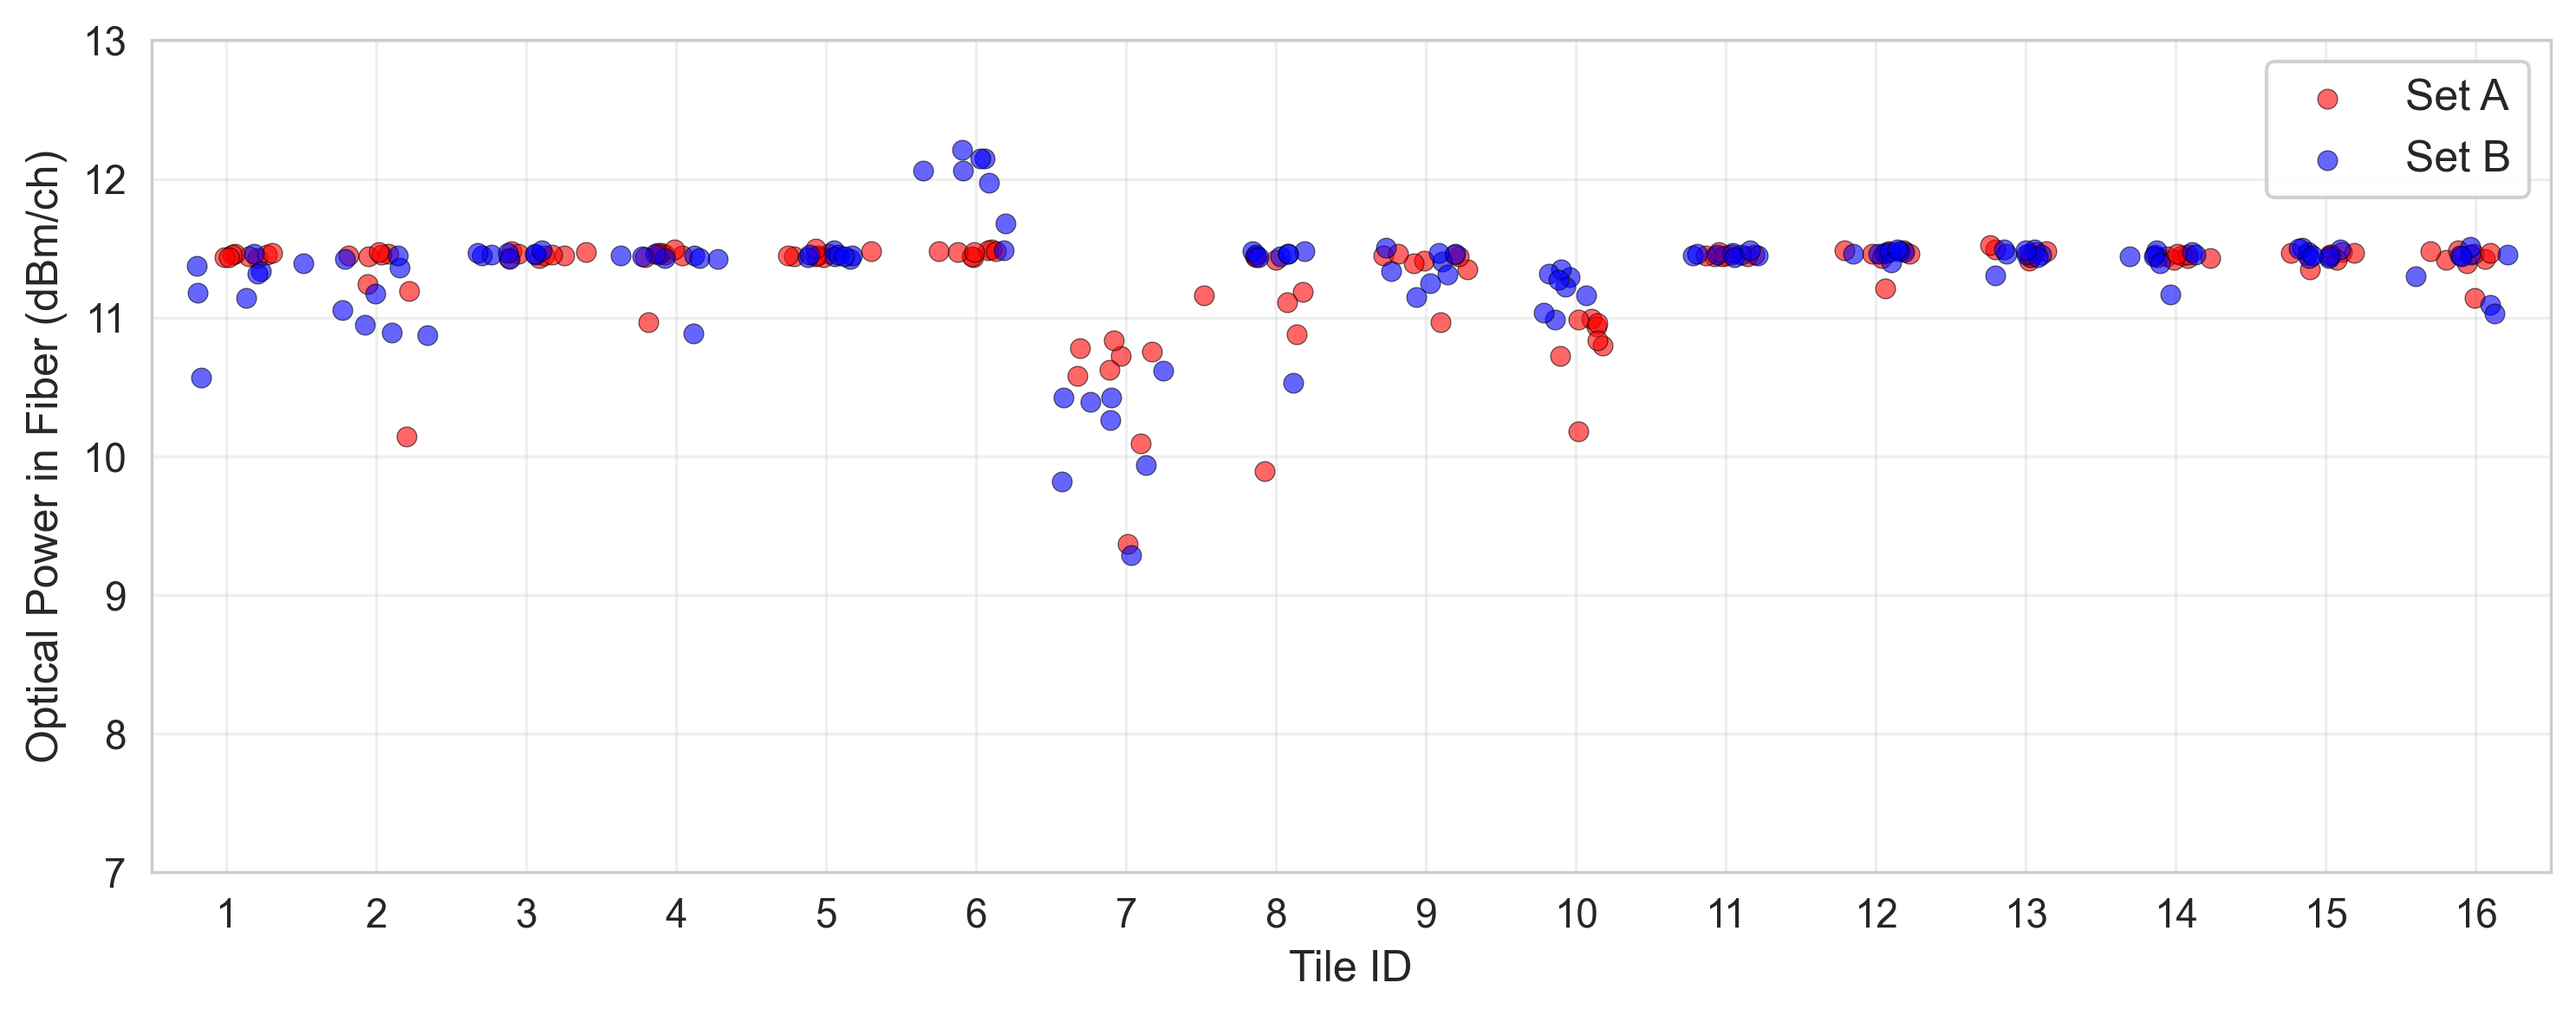
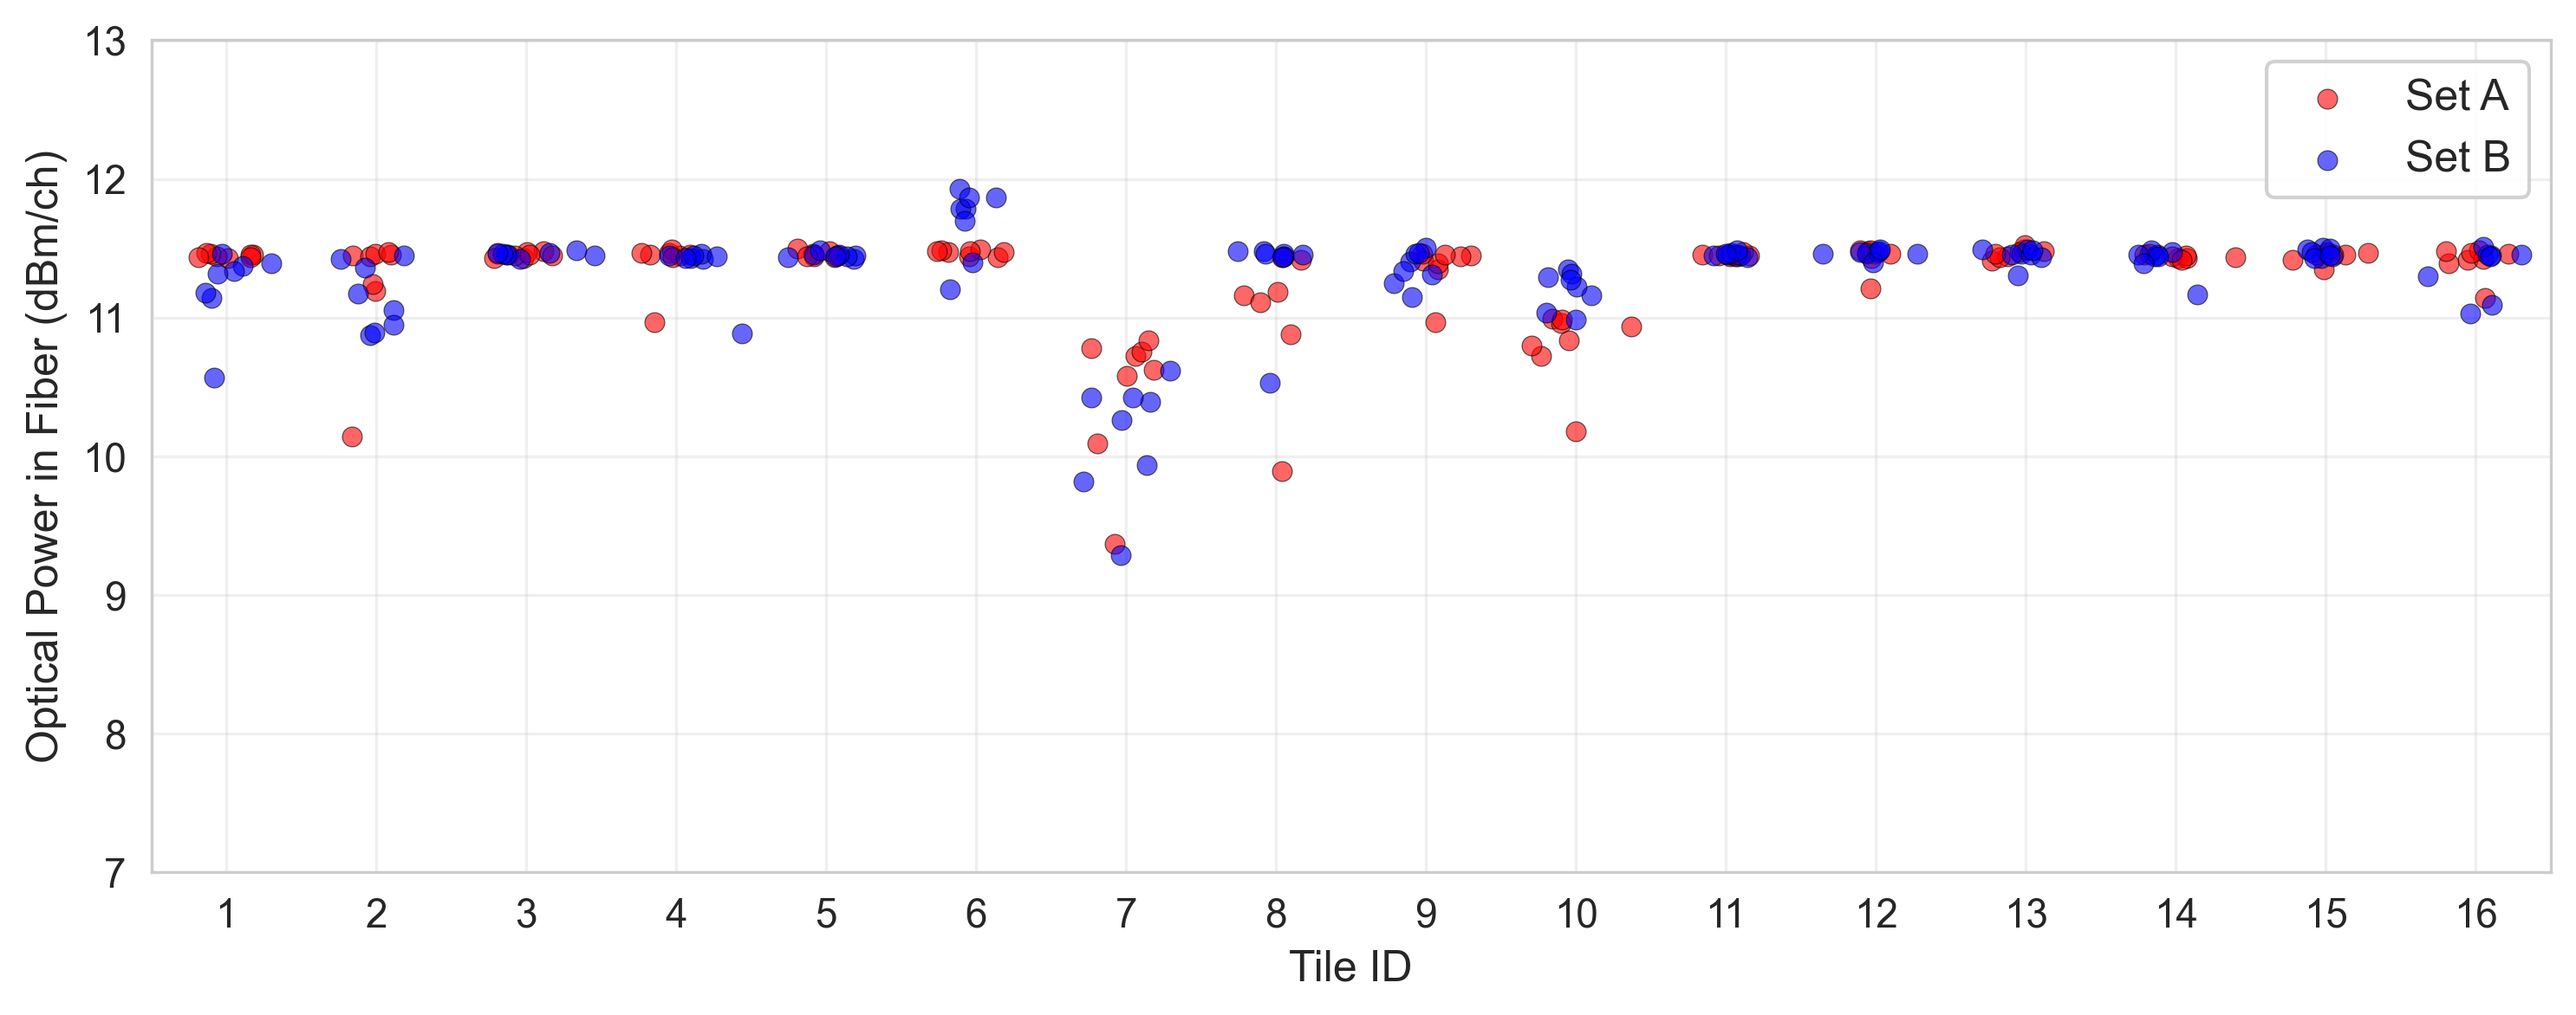
Update 30C operation analysis: change tile 5 bank B multiplier to 7.5
- Change multiplier from 8 to 7.5 for tile 5 bank B correction

diff --git a/ips_clm/ips_clm_evt_ofc/analysis_src/module_analysis.py b/ips_clm/ips_clm_evt_ofc/analysis_src/module_analysis.py
@@ -5988,9 +5988,9 @@ class temperature_aggressors_2:
                 
                 # Each value in the array represents a channel
                 for channel_idx, value_uw in enumerate(pic_values_uw):
-                    # Special case: multiply tile 5, bank B by 8
+                    # Special case: multiply tile 5, bank B by 7.5
                     if tile_id == 5 and bank_type == 'BANK_B':
-                        value_uw = value_uw * 8
+                        value_uw = value_uw * 7.5
                     
                     # Convert from µW to dBm: dBm = 10 * log10(power_uW / 1000)
                     if value_uw > 0:
